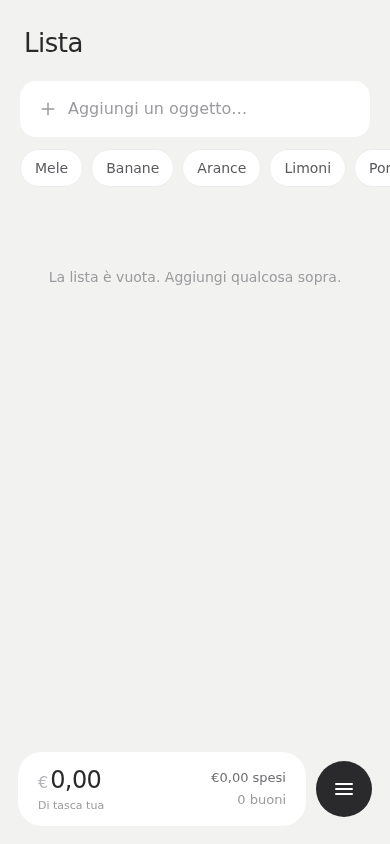
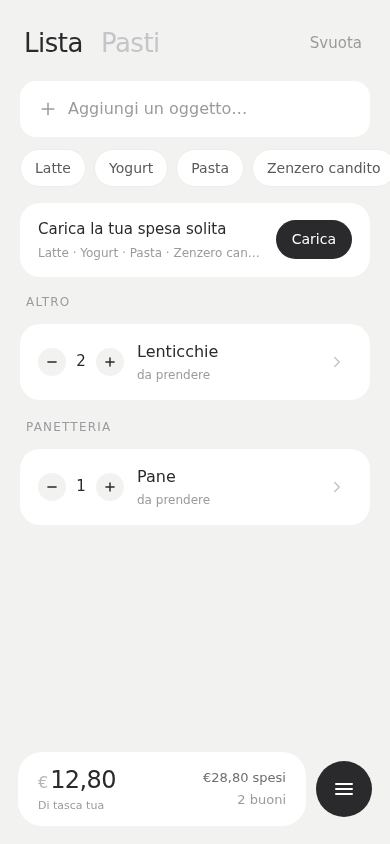
docs: refresh README screenshots and navigation notes for the new layout
Replace the old home and new-shopping screenshots with list, meals, week
summary and statistics, and describe the v0.36.0 navigation in
CLAUDE.md instead of the original side-nav idea.

diff --git a/CLAUDE.md b/CLAUDE.md
@@ -23,8 +23,15 @@ Palette colori dal mockup:
 Font: system font stack (`-apple-system, BlinkMacSystemFont, 'SF Pro Display', 'Hanken Grotesk', ...`)
 Pesi: 300 per i numeri grandi, 400 per il testo normale.
 
-Navigazione: side nav con push (effetto Vaul), nessun bottom tab bar —
-invece una floating bottom bar fissa che apre un bottom sheet di riepilogo settimana.
+Navigazione (dalla v0.36.0, decisa con l'utente — prevale sul mockup):
+- Home = Lista. Le due sezioni principali, Lista e Pasti, si alternano toccando i titoli
+  grandi in alto (`SectionTitle`: attivo scuro, l'altro grigio). Nessun bottom tab bar.
+- Floating bottom bar fissa: la pill apre un bottom sheet con il riepilogo della settimana
+  e "Nuova spesa"; il cerchio apre il menu a gruppi ("Le tue spese", "Gestisci", Impostazioni).
+- Le pagine del menu hanno la freccia ‹ che torna all'ultima sezione principale e si
+  sostituiscono a vicenda; i dettagli tornano alla pagina precedente (`BackButton`).
+- La barra in basso è visibile ovunque tranne nella spesa in corso (`/spesa`, fuori dalla shell).
+- Transizioni: dissolvenza allo stesso livello, scorrimento laterale tra livelli (`navTransition`).
 
 ## Stack
 

diff --git a/README.md b/README.md
@@ -20,16 +20,16 @@
 <div align="center">
   <table>
     <tr>
-      <td align="center"><img src="docs/screenshots/home.png" width="180" alt="Home"></td>
       <td align="center"><img src="docs/screenshots/lista.png" width="180" alt="Lista"></td>
+      <td align="center"><img src="docs/screenshots/pasti.png" width="180" alt="Pasti"></td>
+      <td align="center"><img src="docs/screenshots/riepilogo.png" width="180" alt="Riepilogo settimana"></td>
       <td align="center"><img src="docs/screenshots/statistiche.png" width="180" alt="Statistiche"></td>
-      <td align="center"><img src="docs/screenshots/nuova-spesa.png" width="180" alt="Nuova spesa"></td>
     </tr>
     <tr>
-      <td align="center"><sub>Home</sub></td>
       <td align="center"><sub>Lista</sub></td>
+      <td align="center"><sub>Pasti</sub></td>
+      <td align="center"><sub>Riepilogo settimana</sub></td>
       <td align="center"><sub>Statistiche</sub></td>
-      <td align="center"><sub>Nuova spesa</sub></td>
     </tr>
   </table>
 </div>

diff --git a/README.en.md b/README.en.md
@@ -20,16 +20,16 @@
 <div align="center">
   <table>
     <tr>
-      <td align="center"><img src="docs/screenshots/home.png" width="180" alt="Home"></td>
       <td align="center"><img src="docs/screenshots/lista.png" width="180" alt="List"></td>
+      <td align="center"><img src="docs/screenshots/pasti.png" width="180" alt="Meals"></td>
+      <td align="center"><img src="docs/screenshots/riepilogo.png" width="180" alt="Week summary"></td>
       <td align="center"><img src="docs/screenshots/statistiche.png" width="180" alt="Statistics"></td>
-      <td align="center"><img src="docs/screenshots/nuova-spesa.png" width="180" alt="New shopping trip"></td>
     </tr>
     <tr>
-      <td align="center"><sub>Home</sub></td>
       <td align="center"><sub>List</sub></td>
+      <td align="center"><sub>Meals</sub></td>
+      <td align="center"><sub>Week summary</sub></td>
       <td align="center"><sub>Statistics</sub></td>
-      <td align="center"><sub>New shopping trip</sub></td>
     </tr>
   </table>
 </div>
